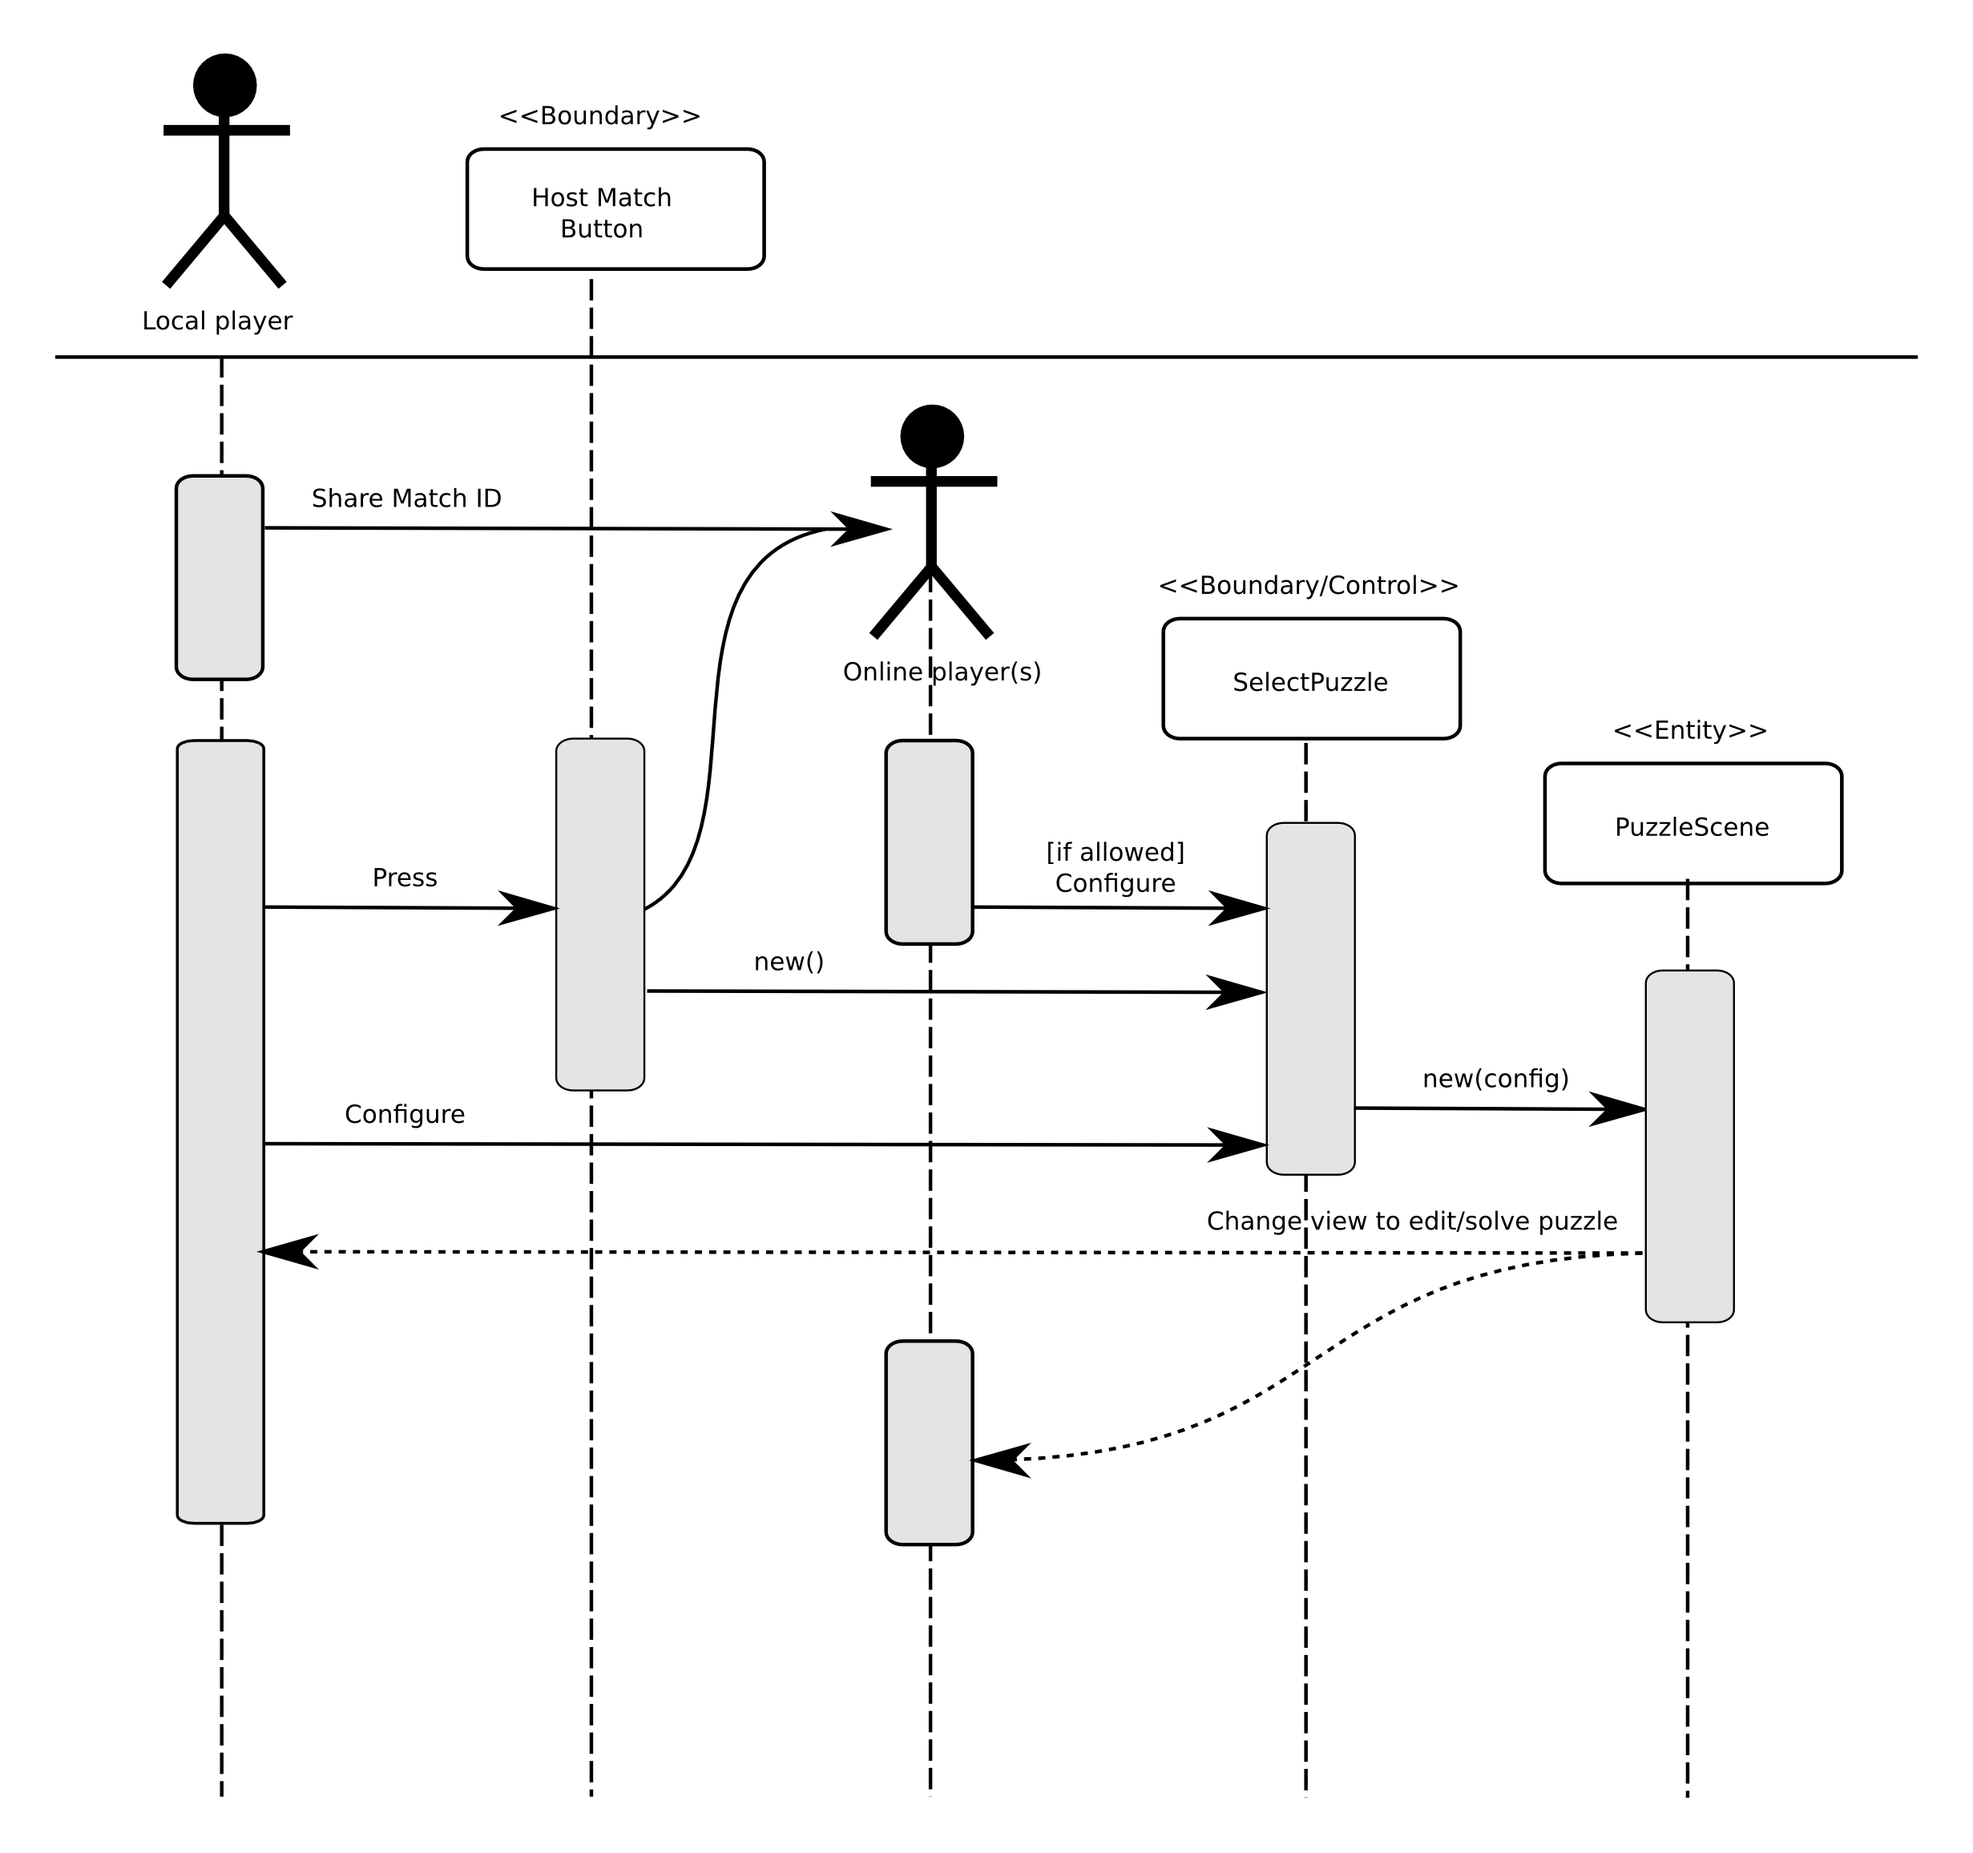
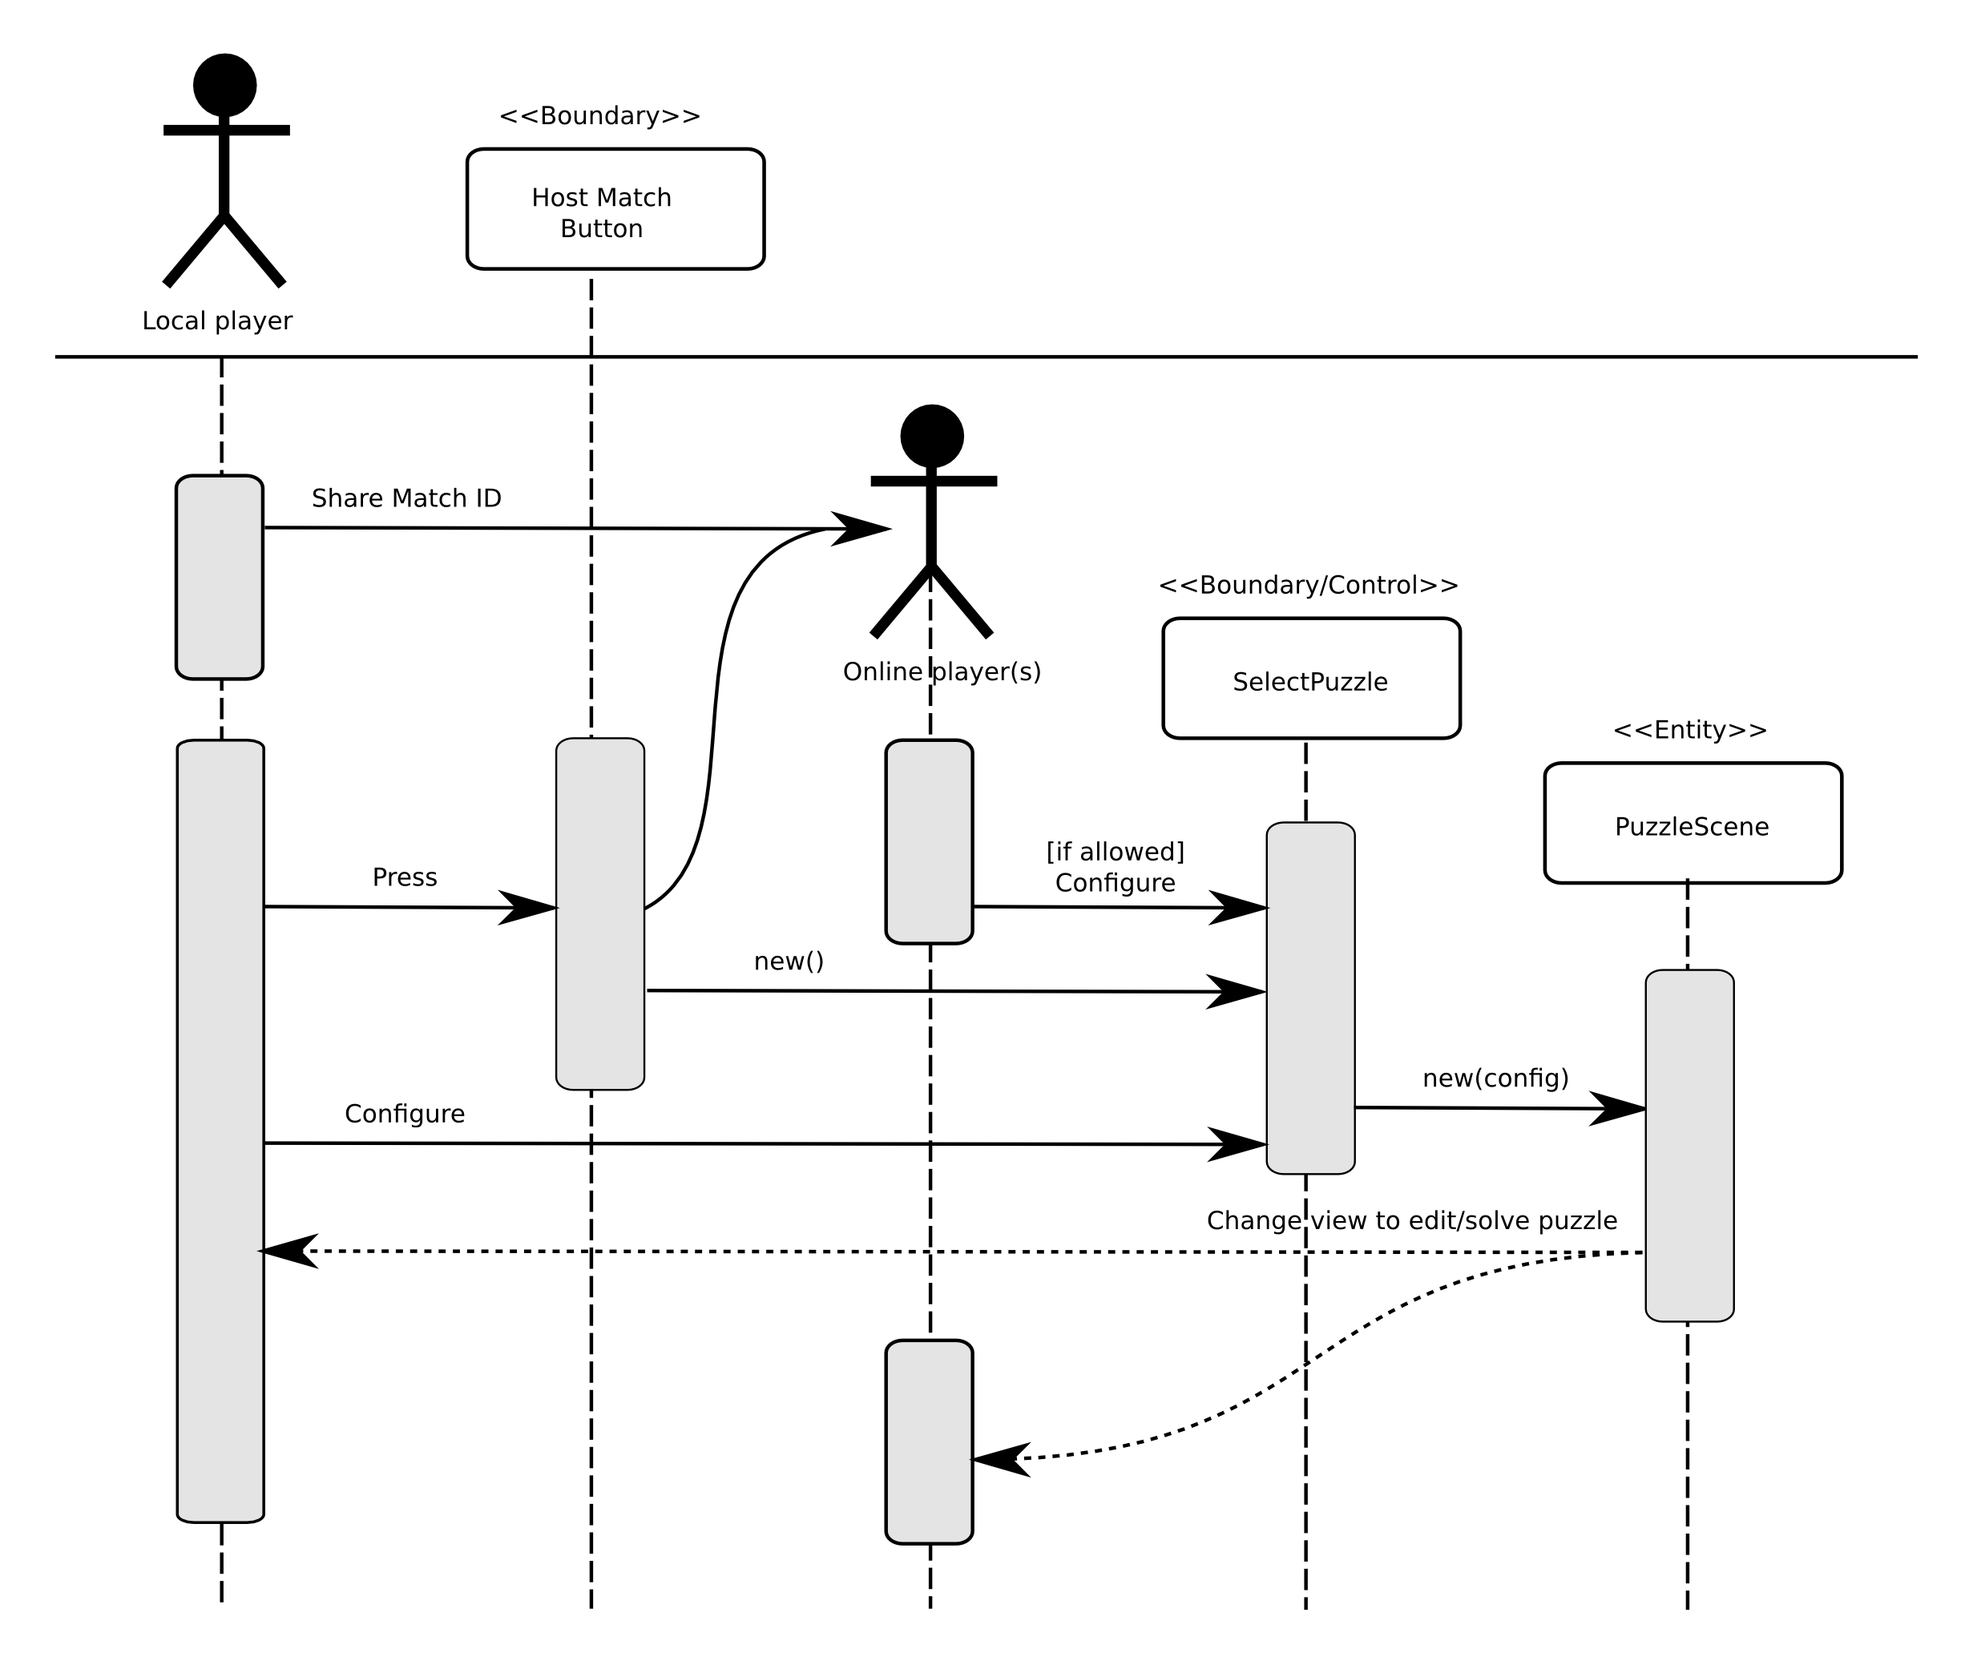
reduced size of sequence diagrams

diff --git a/team5-requirements-spec.tex b/team5-requirements-spec.tex
@@ -95,10 +95,10 @@ workspace whose primary purpose is word-processing and web browsing.
 %MDFRAMED%\begin{mdframed}
     \subsubsection{Host match}
     \begin{description}
-        \item[Entry conditions] Internet connection
+        \item[Entry conditions] Internet connection.
         \item[Exit conditions] Will return to game menu. All players
-            disconnected or all puzzled have been solved
-        \item[Participating Actors] Online player and local player
+            disconnected or all puzzled have been solved.
+        \item[Participating Actors] Online player and local player.
         \item[Flow of events]:
             \begin{enumerate}
                 \item The user presses the appropriate menu button.
@@ -128,8 +128,8 @@ workspace whose primary purpose is word-processing and web browsing.
         \item[Entry conditions] Internet connection. The menu must be present.
         \item[Exit conditions]
         \item[Exit conditions] Will return to game menu. All players
-            disconnected or all puzzled have been solved
-        \item[Participating Actors] Online player and local player
+            disconnected or all puzzled have been solved.
+        \item[Participating Actors] Online player and local player.
         \item[Flow of events]:
             \begin{enumerate}
                 \item The user presses the appropriate menu button.
@@ -153,7 +153,7 @@ workspace whose primary purpose is word-processing and web browsing.
         \item[Entry conditions] Menu must be present.
         \item[Exit conditions] Will return to game menu. Puzzle has been
             solved.
-        \item[Participating Actors] Local player
+        \item[Participating Actors] Local player.
         \item[Flow of events]:
             \begin{enumerate}
                 \item User selects the appropriate menu button.
@@ -177,7 +177,7 @@ workspace whose primary purpose is word-processing and web browsing.
             must be activated.
         \item[Exit conditions] Will return to game menu. The puzzle may be
             saved to the disk.
-        \item[Participating Actors] Online player or local player
+        \item[Participating Actors] Online player or local player.
         \item[Flow of events]:
             \begin{enumerate}
                 \item The user navigates the puzzle
@@ -187,7 +187,6 @@ workspace whose primary purpose is word-processing and web browsing.
                 \item The user may change properties of the block using this
                     screen.
                 \item Blocks may be added or removed using this same screen.
-                \item
             \end{enumerate}
             Puzzle preview:
             \begin{enumerate}
@@ -212,7 +211,7 @@ workspace whose primary purpose is word-processing and web browsing.
         \item[Exit conditions] Will return to game menu or puzzle editor.
             If the game is over, an overview of results will be shown and the
             steps taken to solve the puzzle may be saved to the disk.
-        \item[Participating Actors] Online player or local player
+        \item[Participating Actors] Online player or local player.
         \item[Flow of events]:
             \begin{enumerate}
                 \item The user navigates the puzzle
@@ -240,7 +239,7 @@ workspace whose primary purpose is word-processing and web browsing.
         \item[Exit conditions] The game must offer continuous feedback.
             If the entry conditions are met, any further input must be
             acted on as soon as possible.
-        \item[Participating Actors] Online player and local player
+        \item[Participating Actors] Online player and local player.
         \item[Flow of events]:
             Camera motion.
             \begin{enumerate}
@@ -273,7 +272,7 @@ workspace whose primary purpose is word-processing and web browsing.
         \item[Entry conditions] Game must be running. This action is
             asynchronous and may activate at any point.
         \item[Exit conditions] Game, be gone!
-        \item[Participating Actors] Local player
+        \item[Participating Actors] Local player.
         \item[Flow of events]:
             \begin{enumerate}
                 \item User presses the quit button on a menu
@@ -287,16 +286,11 @@ workspace whose primary purpose is word-processing and web browsing.
 
 
 % reqs analysis
-%\section{Requirements Analysis}\label{reqs-analysis-BC}
-
-%\subsection{Scope and Objectives}
-
-%\subsection{Supplementary Requirements}
-
-% reqs analysis
 \section{Requirements Analysis}
 
 \subsection{Structural Analysis}\label{struct-analysis-BC}
+% Briefly describe each analysis class (organized according to type - boundary,
+% control, and entity) and class diagrams
 
 \subsection{Behavioral Analysis}\label{behavioral-analysis-HR}
 
